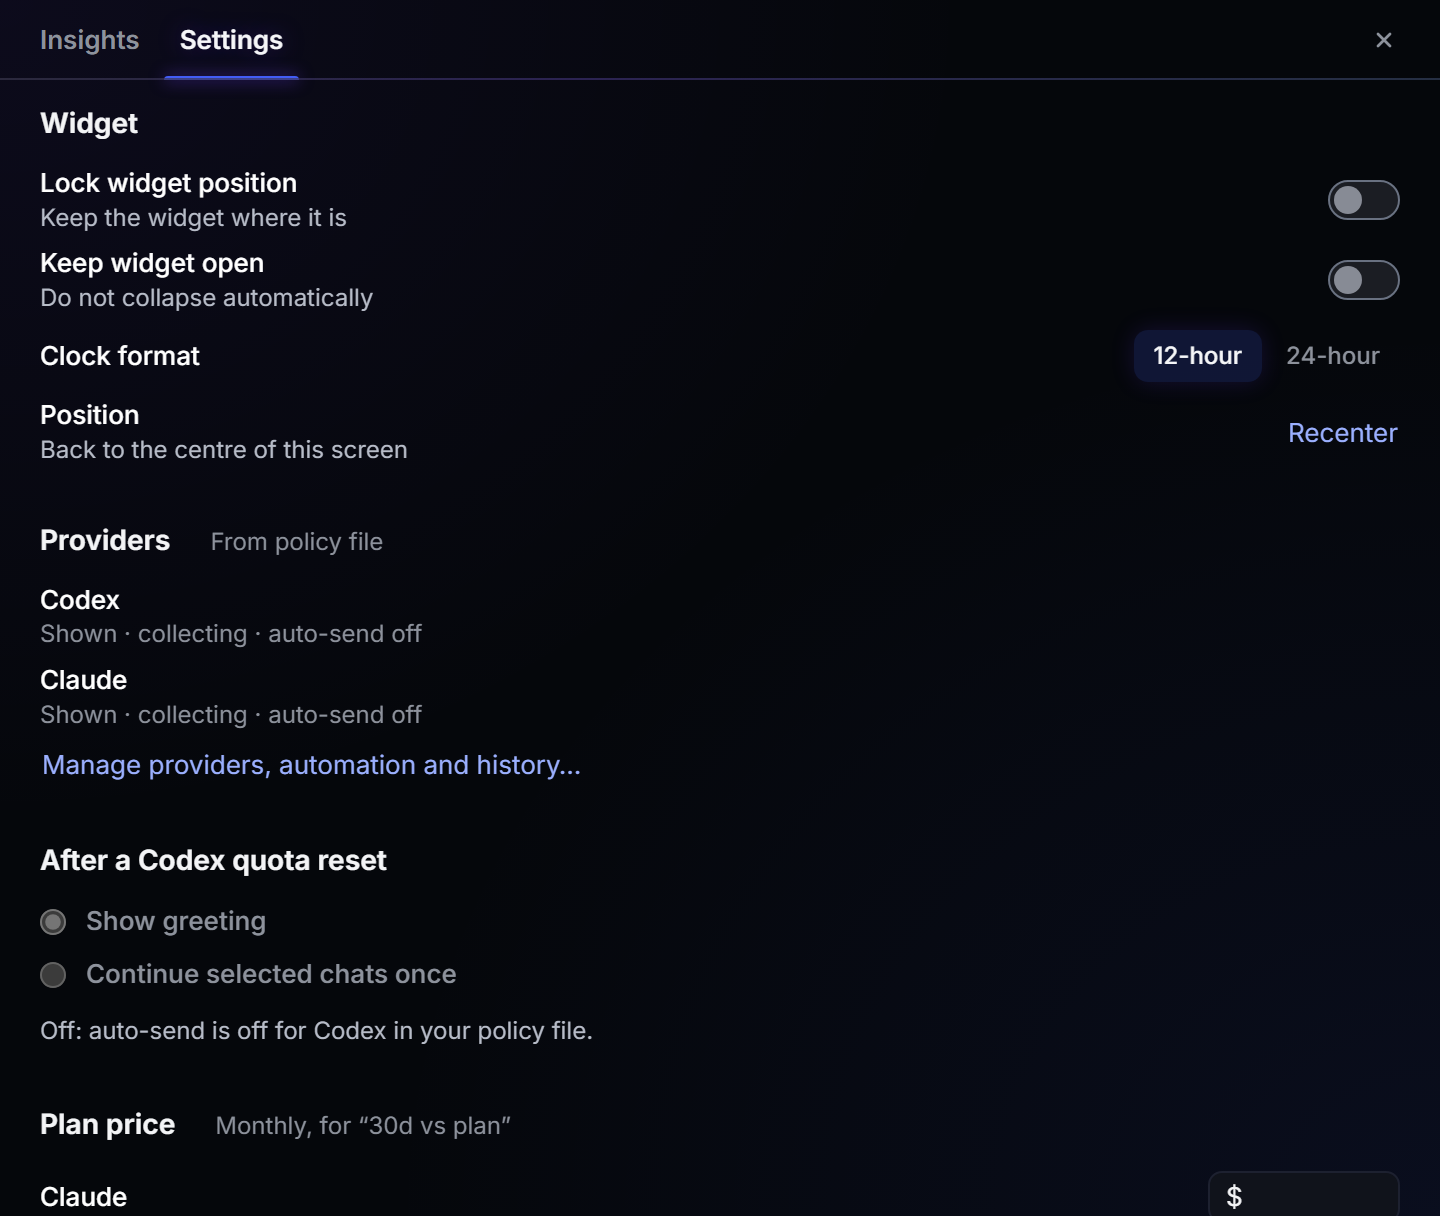
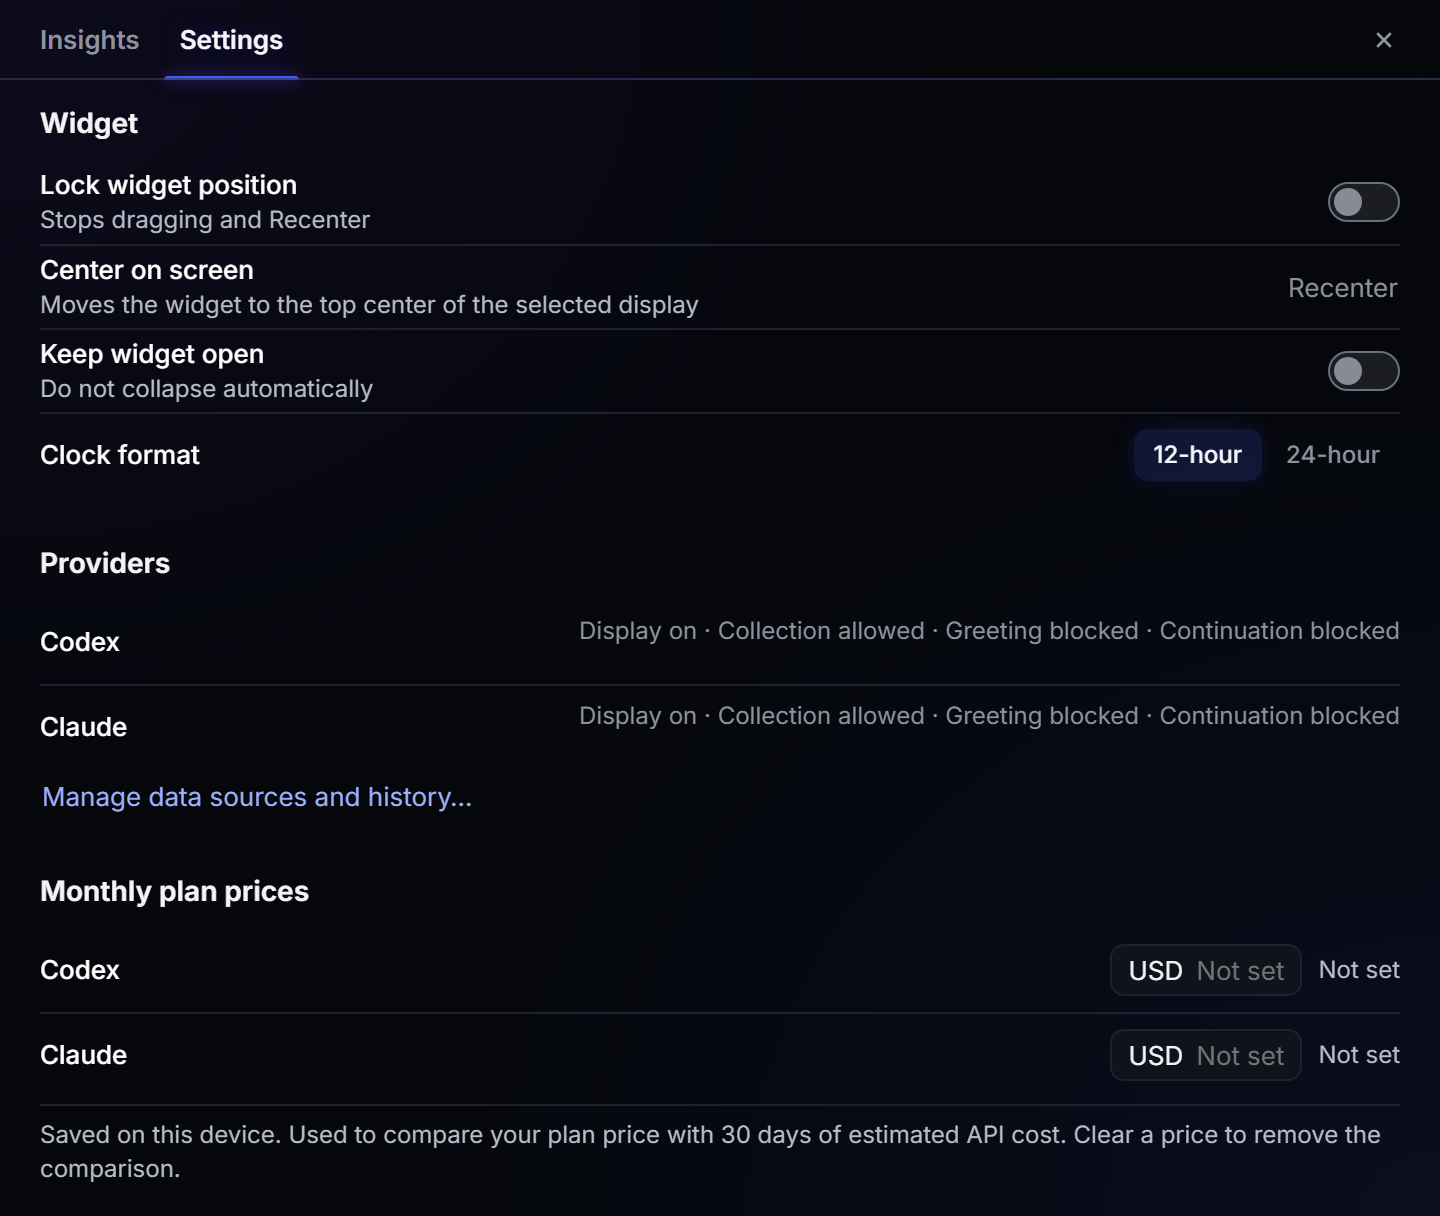
Docs: refresh screenshots, README layout and changelog (#32)
* Docs: refresh screenshots, tighten the README layout and bring the changelog up to date

Fresh fixture renders show the new subagent rows. The README now shows one hero image, the collapsed strip and an Insights/Settings grid instead of repeating the widget image.

* Rig: open_settings waits for the settings load to finish before tests count its controls

diff --git a/tests/ui_rig/test_widget.py b/tests/ui_rig/test_widget.py
@@ -25,6 +25,8 @@ def open_settings(page):
     page.locator(ui.SETTINGS_TAB).click()
     expect(page.locator(ui.SETTINGS)).to_be_visible()
     expect(page.locator(ui.SETTINGS).get_by_role("switch").first).to_be_visible()
+    # Controls are added when the settings load finishes; count them only after it settles.
+    page.wait_for_function("() => { const s = window.TokenTrackerDashboard?.state; return !!s && s.settingsLoaded && !s.settingsBusy; }")
 
 
 def exercise_provider_chips(page):

diff --git a/README.md b/README.md
@@ -14,35 +14,43 @@
   <img alt="Python 3.12+" src="https://img.shields.io/badge/python-3.12%2B-3776AB">
 </p>
 
-**Branchglance is a small always-on-top widget that shows what your Codex and Claude Code agents are doing: which are running, which are waiting on you, and how much of your usage limit is left.**
+<h3 align="center">Every Codex and Claude Code agent in one tree: what's running, what needs you, and how much limit is left.</h3>
 
 <p align="center">
-  <img alt="Branchglance showing a tree of Codex and Claude Code chats with subagents, plus 5-hour and weekly limits" src="docs/images/widget.png" width="560">
+  <img alt="Branchglance showing a tree of Codex and Claude Code chats with subagents, plus 5-hour and weekly limits" src="docs/images/widget.png" width="600">
 </p>
 
-All screenshots use synthetic sample data.
+<p align="center">
+  <img alt="The collapsed widget: clock, chat counts, and 5-hour and weekly limit bands" src="docs/images/widget-collapsed.png" width="400"><br>
+  <sub>Collapsed, it is a thin strip with a clock and limit bands. Hover over it, or press <kbd>Ctrl</kbd>+<kbd>Shift</kbd>+<kbd>T</kbd>, to open the tree.</sub>
+</p>
 
-> These docs describe `master`. For the latest release, use the docs at its release tag; features in [Unreleased](CHANGELOG.md) require a source build.
+<table>
+  <tr>
+    <td width="50%" valign="top"><img alt="Branchglance Insights: tokens, estimated cost, models and quota use" src="docs/images/insights.png"></td>
+    <td width="50%" valign="top"><img alt="Branchglance Settings: widget controls, providers and plan prices" src="docs/images/settings.png"></td>
+  </tr>
+  <tr>
+    <td align="center"><b>Insights</b>: tokens, estimated cost, models and quota peaks, from 24 hours to 30 days.</td>
+    <td align="center"><b>Settings</b>: widget controls, provider policy and plan prices in one place.</td>
+  </tr>
+</table>
+
+<p align="center"><sub>All screenshots use synthetic sample data.</sub></p>
+
+> These docs describe `master`. For the latest release, use the docs at its release tag; features in [Unreleased](CHANGELOG.md) need a source build.
 
 ## Features
 
 Items marked **(0.2.0)** are in the development version.
 
-<p align="center"><img alt="Branchglance chat tree and usage limits" src="docs/images/widget.png" width="560"></p>
-<p align="center">The chat tree, waiting count and provider limits stay in view.</p>
-
-<p align="center"><img alt="Branchglance Insights dashboard" src="docs/images/insights.png" width="560"></p>
-<p align="center">Insights summarize tokens, estimated cost, models and quota use.</p>
-
-<p align="center"><img alt="Branchglance Settings dashboard" src="docs/images/settings.png" width="560"></p>
-<p align="center">Settings keep widget controls, provider policy and plan prices together.</p>
-
-- **Chat tree.** Codex and Claude Code chats with subagents; Codex jobs started from a Claude chat nest under it. A status or parent link appears only when there is evidence for it.
-- **Needs-you count.** Waiting chats are marked and counted; click the count to jump to the next one.
-- **Usage limits.** 5-hour and weekly limits for both providers include reset countdowns. Optional live Claude usage (off by default) refreshes about every 180 seconds **(0.2.0)**.
-- **Insights.** Compare tokens, estimated cost, models and quota peaks from 24 hours to 30 days. Models without a known price are listed, never guessed.
+- **One tree for every agent.** Codex and Claude Code chats with their subagents; Codex jobs started from a Claude chat nest under it. A status or parent link appears only when there is evidence for it.
+- **Status at a glance.** The dot beside each name shows its state. Subagents show their timer in the dot's colour with what they are doing underneath, so long names fit **(0.2.0)**.
+- **Needs-you count.** Waiting chats are marked and counted; click the count to jump to the next one, or click a waiting subagent's timer to open its question.
+- **Usage limits.** 5-hour and weekly limits for both providers, with reset countdowns. Optional live Claude usage (off by default) refreshes about every 180 seconds **(0.2.0)**.
+- **Insights.** Compare tokens, estimated cost, models and quota peaks. Models without a known price are listed, never guessed.
 - **Reset actions (off by default).** A greeting keeps Claude's 5-hour window rolling **(0.2.0)**; a one-time `continue` can be queued for chats you pick.
-- **Out of the way.** The widget collapses to a thin strip with a clock and limit bands (into the notch on macOS). Hover over it, or press Ctrl+Shift+T, to open the tree.
+- **Out of the way.** The widget collapses to a thin strip (into the notch on macOS) and expands on hover.
 
 ## How it works
 

diff --git a/CHANGELOG.md b/CHANGELOG.md
@@ -15,6 +15,9 @@ Planned as 0.2.0.
 - Settings has a Report a bug section that previews a privacy-filtered debug report to copy into a GitHub issue. Nothing is sent automatically. From a source checkout, `--debug-report` writes the same report to a file.
 - A resumed Codex thread shows a ↻N badge after two or more resumes.
 - A separate Claude Code chat started from another Claude chat (for example with `claude -p`) nests under that chat when its process chain proves the parent. Agents started from a Codex thread stay top-level until Codex's per-thread environment can be verified.
+- Runs whose process is verified to have exited show a muted **Stopped** instead of "Status unknown".
+- Settings opens in its own window.
+- Prices for GPT-6.2 Sol, GPT-6.2 Astra (with its long-context rule) and Claude Fable 5.2. Claude Haiku 5.5 requests over 100K prompt tokens are priced at the long-prompt rate.
 
 ### Changed
 
@@ -23,7 +26,8 @@ Planned as 0.2.0.
 - Removed routing alerts and their automatic widget expansion.
 - Branchglance now finds Claude's settings in `CLAUDE_CONFIG_DIR` when set (same as Claude Code); the old `CLAUDE_HOME` variable no longer locates settings; if it is set, uninstalling an install from before targets were recorded leaves hooks in place rather than guess.
 - A Codex job nests under a Claude chat only when its parent is proven by a receipt or verified process lineage. Unverifiable candidates now stay unresolved instead of being guessed.
-- Subagent rows keep their parent's timing and workspace columns.
+- Subagent rows drop the status word: the dot beside the name carries the state, the timer takes the status column in the dot's colour with the current activity below it, and the name gets the freed width. A waiting subagent's timer opens its question.
+- Insights uses one 30-day window throughout.
 - Claude readings are tied to the account they came from. Switching accounts no longer shows the old account's limits, and a reset armed on one account is not carried to another.
 - Privacy text is exact: Branchglance does read Claude Code's OAuth token, in memory, for live usage. See [Privacy](docs/PRIVACY.md).
 - A resumed Codex thread is one tree row instead of one row per run.
@@ -46,6 +50,10 @@ Planned as 0.2.0.
 - Running agent rows show elapsed time from the first known start instead of a dash.
 - Per-chat scratch folders show as "scratch" instead of their path, and POSIX paths no longer get a drive prefix.
 - A rejected settings change (feature, status-line or greeting request) gets its error response instead of a dropped connection.
+- The widget no longer settles at a stale height when the chat list opens.
+- The usage ledger no longer re-reads growing transcripts from the start on every new line; exact verification runs once a file goes quiet. Cold start reads about half as much data as before.
+- A locked integrity check no longer quarantines a healthy usage ledger.
+- A slow memory leak in the widget is fixed.
 
 ### Security
 
@@ -56,6 +64,7 @@ Planned as 0.2.0.
 - Codex processes Branchglance starts are contained from the moment they are created, and retention cleanup on macOS no longer follows links.
 - Installing or removing Claude hooks refuses, before any backup or write, a change that would alter a setting or hook Branchglance does not own.
 - Revoking live Claude usage cancels a request in progress, and no request is sent after the revocation.
+- Queue, open and Settings writes go through the native bridge with sender, generation and admission checks; reset-action writes need the Settings capability.
 
 ## [0.1.0] - 2026-11-03
 
